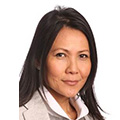
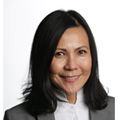
photo

diff --git a/resources/views/society/leadership.blade.php b/resources/views/society/leadership.blade.php
@@ -30,21 +30,21 @@
 	            </p>
         	</div>
         	<div class="col-md-4 xs-mb-15">
-	            <img src="../images/120x120.jpg" class="img-circle">
+                <img src="images/stories/people/elisabeth_bell.jpg" class="img-circle">
 	            <p class="photo_caption"><strong>{!! Html::mailto('e.h.bel@amc.uva.nl', 'Elisabeth Bel') !!}</strong>
 	            Past President <br>
 	            <a title="Download COI" href="http://old.ersnet.org/about-us/leadership.raw?task=callelement&item_id=450&element=92a7de3e-9cbe-4faa-a76a-9b026b7cf9f9&method=download">Download COI</a>
             	</p>
         	</div>
 			<div class="col-md-4 xs-mb-15">
-	            <img src="../images/120x120.jpg" class="img-circle">
+                <img src="images/stories/people/guy_joos.jpg" class="img-circle">
 	            <p class="photo_caption"><strong>{!! Html::mailto('guy.joos@ugent.be', 'Guy Joos') !!}</strong>
 	            President Elect<br>
 	            <a title="Download COI" href="http://old.ersnet.org/about-us/leadership.raw?task=callelement&item_id=451&element=92a7de3e-9cbe-4faa-a76a-9b026b7cf9f9&method=download">Download COI</a>
 	            </p>
         	</div>
         	<div class="col-md-4 xs-mb-15">
-	            <img src="../images/120x120.jpg" class="img-circle">
+	            <img src="images/stories/people/mina_gaga.jpg" class="img-circle">
 	            <p class="photo_caption"><strong>{!! Html::mailto('minagaga@yahoo.com', 'Mina Gaga') !!}</strong>
 	            Vice President <br>
 	            </p>
@@ -71,14 +71,14 @@
 	            </p>
         	</div>
         	<div class="col-md-4 xs-mb-15">
-	            <img src="../images/120x120.jpg" class="img-circle">
+	            <img src="images/stories/people/stephen_holgate.jpg" class="img-circle">
 	            <p class="photo_caption"><strong>{!! Html::mailto('S.Holgate@soton.ac.uk', 'Stephen Holgate') !!}</strong>
 	            Science Council Chair <br>
 	            <a title="Download COI" href="http://old.ersnet.org/about-us/leadership.raw?task=callelement&item_id=454&element=92a7de3e-9cbe-4faa-a76a-9b026b7cf9f9&method=download">Download COI</a>
 	            </p>
         	</div>
         	<div class="col-md-4 xs-mb-15">
-	            <img src="../images/120x120.jpg" class="img-circle">
+	            <img src="images/stories/people/christina_gratziou.jpg" class="img-circle">
 	            <p class="photo_caption"><strong>{!! Html::mailto('chgratziou@yahoo.com', 'Christina Gratziou') !!}</strong>
 	            Advocacy Council Chair <br>
 	            <a title="Download COI" href="http://old.ersnet.org/about-us/leadership.raw?task=callelement&item_id=597&element=92a7de3e-9cbe-4faa-a76a-9b026b7cf9f9&method=download">Download COI</a>
@@ -92,24 +92,24 @@
 	            </p>
         	</div>
         	<div class="col-md-4 xs-mb-15">
-	            <img src="../images/120x120.jpg" class="img-circle">
+	            <img src="images/stories/people/john_gibson.jpg" class="img-circle">
 	            <p class="photo_caption"><strong>{!! Html::mailto('John.Gibson@newcastle.ac.uk', 'John Gibson') !!}</strong>
 	            Publications Chair <br>
 	            <a title="Download COI" href="http://old.ersnet.org/about-us/leadership.raw?task=callelement&item_id=596&element=92a7de3e-9cbe-4faa-a76a-9b026b7cf9f9&method=download">Download COI</a>
         	</div>
         	<div class="col-md-4 xs-mb-15">
-	            <img src="../images/120x120.jpg" class="img-circle">
+	            <img src="images/stories/people/guy_brusselle.jpg" class="img-circle">
 	            <p class="photo_caption"><strong>{!! Html::mailto('guy.brusselle@ugent.be', 'Guy Brusselle') !!}</strong>
 	            Science Council Chair-Elect <br>
 	            <a title="Download COI" href="http://old.ersnet.org/about-us/leadership.raw?task=callelement&item_id=1057&element=92a7de3e-9cbe-4faa-a76a-9b026b7cf9f9&method=download">Download COI</a>
         	</div>
         	<div class="col-md-4 xs-mb-15">
-	            <img src="../images/120x120.jpg" class="img-circle">
+	            <img src="images/stories/people/otto_chris_burghuber.jpg" class="img-circle">
 	            <p class="photo_caption"><strong>Otto Chris Burghuber</strong>
 	            Treasurer-Elect <br>
         	</div>
         	<div class="col-md-4 xs-mb-15">
-	            <img src="images/stories/people//Carlos_Robalo.jpg" class="img-circle">
+	            <img src="images/stories/people/Carlos_Robalo.jpg" class="img-circle">
 	            <p class="photo_caption"><strong>Carlos Robalo Cordeiro</strong>
 	            Secretary General-Elect <br>
 	            <a title="Download COI" href="http://old.ersnet.org/about-us/leadership.raw?task=callelement&item_id=1059&element=92a7de3e-9cbe-4faa-a76a-9b026b7cf9f9&method=download">Download COI</a>

diff --git a/resources/views/society/leadership/education-council.blade.php b/resources/views/society/leadership/education-council.blade.php
@@ -16,55 +16,43 @@
 		            </p>
 	        	</div>
 	        	<div class="col-md-4 xs-mb-15">
-		            <img src="../images/120x120.jpg" class="img-circle">
+		            <img src="../images/course/Nicolino_Ambrosino.jpg" class="img-circle">
 		            <p class="photo_caption"><strong>{!! Html::mailto('nico.ambrosino@gmail.com ', 'Nicolino Ambrosino') !!}</strong>
 		            External Activities Director <br>
 		            </p>
 	        	</div>
 	        	<div class="col-md-4 xs-mb-15">
-		            <img src="../images/120x120.jpg" class="img-circle">
+		            <img src="../images/stories/people/frans_de_jongh.jpg" class="img-circle">
 		            <p class="photo_caption"><strong>{!! Html::mailto('f.h.dejongh@amc.uva.nl', 'Frans de Jongh') !!}</strong>
 		            Learning Resources Director <br>
 		            </p>
 	        	</div>
 	        	<div class="col-md-4 xs-mb-15">
-		            <img src="../images/120x120.jpg" class="img-circle">
+		            <img src="../images/stories/people/ernst_eber.jpg" class="img-circle">
 		            <p class="photo_caption"><strong>{!! Html::mailto('ernst.eber@medunigraz.at', 'Ernst Eber') !!}</strong>
 		            HERMES Director<br>
 		            </p>
 	        	</div>
 	        	<div class="col-md-4 xs-mb-15">
-		            <img src="../images/120x120.jpg" class="img-circle">
-		            <p class="photo_caption"><strong>{!! Html::mailto('text', 'text') !!}</strong>
-		            text<br>
-		            </p>
-	        	</div>
-	        	<div class="col-md-4 xs-mb-15">
-		            <img src="../images/120x120.jpg" class="img-circle">
+		            <img src="../images/stories/people/ildiko_horvath.jpg" class="img-circle">
 		            <p class="photo_caption"><strong>{!! Html::mailto('kiss.horvath1@t-online.hu', 'Ildiko Horvath') !!}</strong>
 		            Assessments Director-Elect<br>
 		            </p>
 	        	</div>
 	        	<div class="col-md-4 xs-mb-15">
-		            <img src="../images/120x120.jpg" class="img-circle">
-		            <p class="photo_caption"><strong>{!! Html::mailto('text', 'text') !!}</strong>
-		            text<br>
-		            </p>
-	        	</div>
-	        	<div class="col-md-4 xs-mb-15">
-		            <img src="../images/120x120.jpg" class="img-circle">
+		            <img src="../images/stories/people/erik-driessen.jpg" class="img-circle">
 		            <p class="photo_caption"><strong>{!! Html::mailto('e.driessen@maastrichtuniversity.nl', 'Erik Driessen') !!}</strong>
 		            Medical Education Advisor <br>
 		            </p>
 	        	</div>
 	        	<div class="col-md-4 xs-mb-15">
-		            <img src="../images/120x120.jpg" class="img-circle">
+		            <img src="../images/stories/people/Renata_Riha.jpg" class="img-circle">
 		            <p class="photo_caption"><strong>{!! Html::mailto('rlriha@hotmail.com', 'Renata Riha') !!}</strong>
 		            Breathe Chief Editor <br>
 		            </p>
 	        	</div>
 	        	<div class="col-md-4 xs-mb-15">
-		            <img src="../images/120x120.jpg" class="img-circle">
+		            <img src="../images/stories/people/robert-bals.jpg" class="img-circle">
 		            <p class="photo_caption"><strong>{!! Html::mailto('robert.bals@uks.eu', 'ROBERT BALS') !!}</strong>
 		            ERS Monograph Chief Editor <br>
 		            </p>

diff --git a/resources/views/society/leadership/science-council.blade.php b/resources/views/society/leadership/science-council.blade.php
@@ -16,14 +16,14 @@
 
 			<div class="row leadership-people" style="padding-top: 40px;">
 				<div class="col-md-4 xs-mb-15">
-					<img src="../images/120x120.jpg" class="img-circle">
+					<img src="images/stories/people/stephen_holgate.jpg" class="img-circle">
 		            <p class="photo_caption"><strong>{!! Html::mailto('S.Holgate@soton.ac.uk', 'Stephen Holgate') !!}</strong>
 		            Science Council Chair <br>
 		            <a href="http://www.ersnet.org/about-us/leadership/science-council.raw?task=callelement&amp;item_id=454&amp;element=92a7de3e-9cbe-4faa-a76a-9b026b7cf9f9&amp;method=download" title="Download COI">Download COI</a>
 		            </p>
 	        	</div>
 	        	<div class="col-md-4 xs-mb-15">
-					<img src="../images/120x120.jpg" class="img-circle">
+					<img src="images/stories/people/guy_brusselle.jpg" class="img-circle">
 		            <p class="photo_caption"><strong>{!! Html::mailto('guy.brusselle@ugent.be', 'GUY BRUSSELLE') !!}</strong>
 		            Science Council Chair-Elect<br>
 		            <a href="http://www.ersnet.org/about-us/leadership/science-council.raw?task=callelement&amp;item_id=1057&amp;element=92a7de3e-9cbe-4faa-a76a-9b026b7cf9f9&amp;method=download" title="Download COI">Download COI</a>
@@ -31,12 +31,12 @@
 
 	        	</div>
 	        	<div class="col-md-4 xs-mb-15">
-					<img src="../images/120x120.jpg" class="img-circle">
+					<img src="images/stories/people/maria_belvisi.jpg" class="img-circle">
 		            <p class="photo_caption"><strong>{!! Html::mailto('m.belvisi@imperial.ac.uk', 'MARIA BELVISI') !!}</strong>
 		            Research Director<br>
 	        	</div>
 	        	<div class="col-md-4 xs-mb-15">
-					<img src="../images/120x120.jpg" class="img-circle">
+					<img src="images/stories/people/rory_morty.jpg" class="img-circle">
 		            <p class="photo_caption"><strong>{!! Html::mailto('rory.morty@innere.med.uni-giessen.de', 'RORY MORTY') !!}</strong>
 		            Research Director-Elect<br>
 	        	</div>
@@ -46,7 +46,7 @@
 		            Research<br>
 		        </div>
 		        <div class="col-md-4 xs-mb-15">
-					<img src="../images/120x120.jpg" class="img-circle">
+					<img src="images/stories/people/marc_miravitlles.jpg" class="img-circle">
 		            <p class="photo_caption"><strong>{!! Html::mailto('mmiravitlles@vhebron.net', 'Marc Miravitlles') !!}</strong>
 		            Guidelines director<br>
 		        </div>

diff --git a/resources/views/society/executive-office.blade.php b/resources/views/society/executive-office.blade.php
@@ -72,10 +72,10 @@
             <div class="col-md-3">
                 <div class="card">
                     <div class="card-image">
-                        <a href="the-society/who-we-are/executive-office#corporate-relations"><img class="img-responsive" src="../images/stories/executive-office/corporate.jpg"></a>
+                        <a href="the-society/who-we-are/executive-office#corporate"><img class="img-responsive" src="../images/stories/executive-office/corporate.jpg"></a>
                     </div>
                     <div class="card-title">
-                        <a href="the-society/who-we-are/executive-office#corporate-relations">Corporate Relations, Marketing</a>
+                        <a href="the-society/who-we-are/executive-office#corporate">Corporate Relations, Marketing</a>
                     </div>
                 </div>
             </div>
